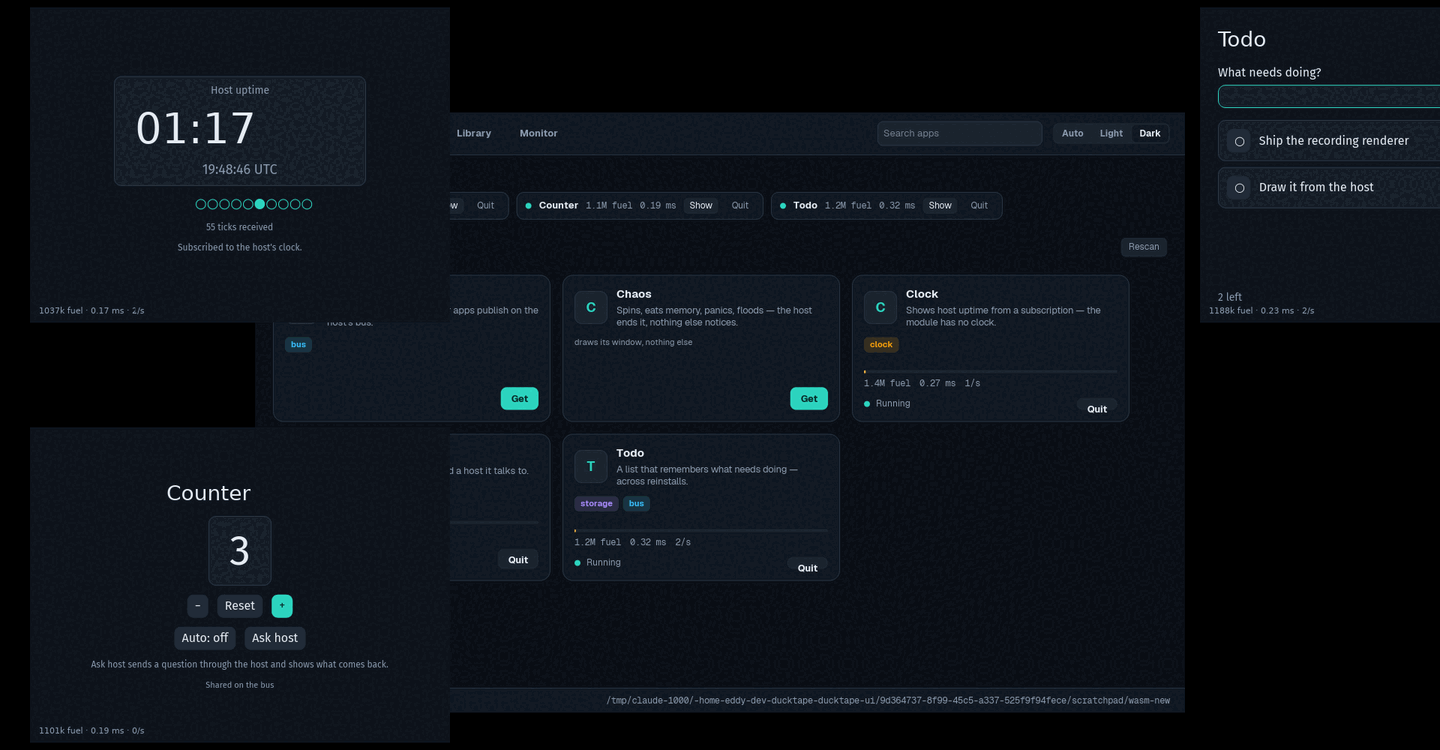
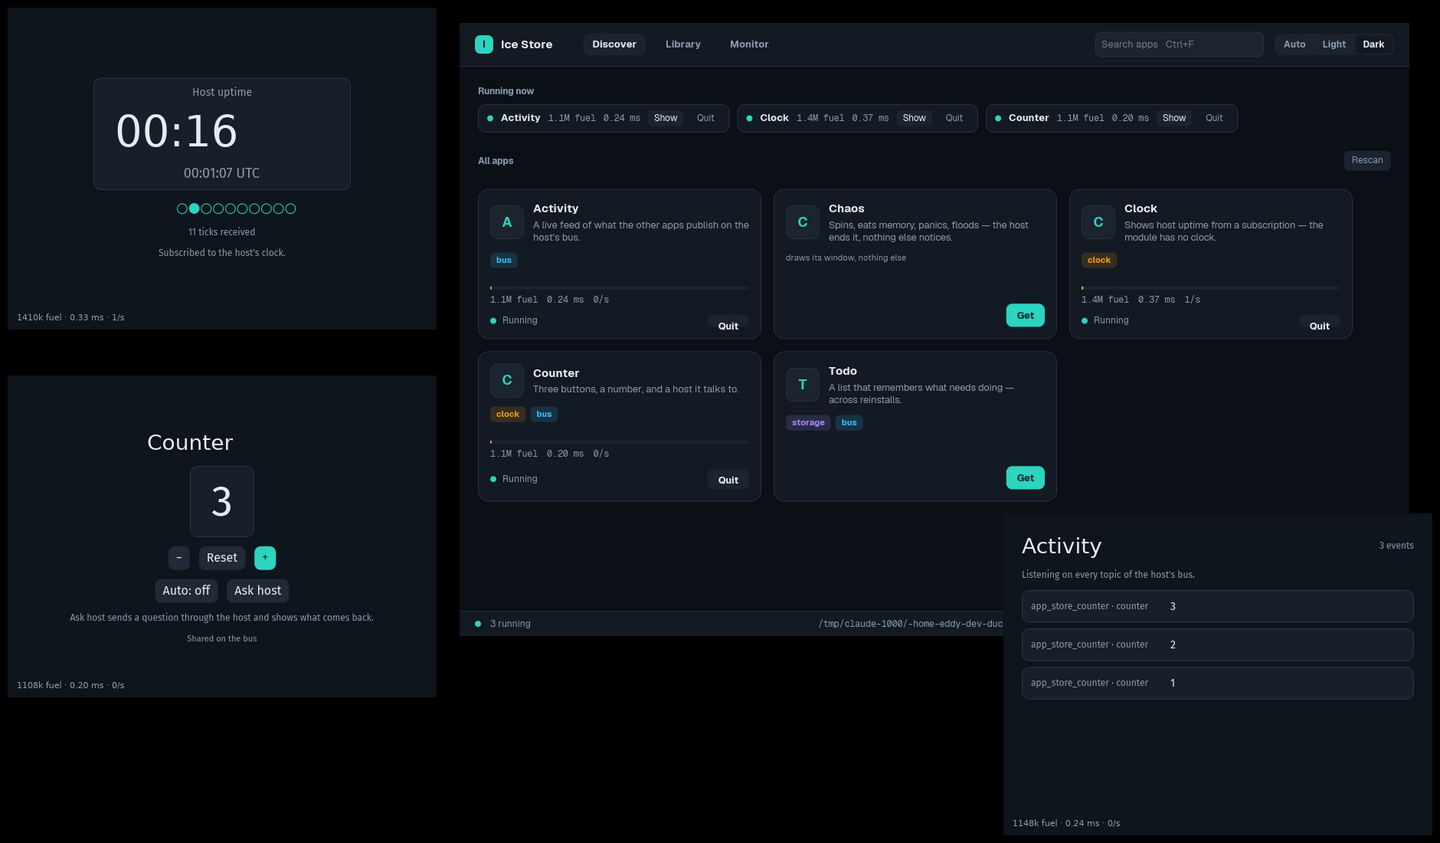
docs(examples): the app store's screenshots and keys, as they are now
The two README screenshots predate the search hint, the wider Library
rows and the card heads that are buttons; both are retaken on the current
store, light and dark, with Clock, Counter and Activity open and three
presses of Counter's + on the bus. The keys paragraph now says what the
keyboard reaches: Tab and Shift+Tab through every control, Enter on the
one wearing the ring.

Claude-Session: https://claude.ai/code/session_01PvrTGzi25cRNW1icTCZahG

diff --git a/examples/app-store/README.md b/examples/app-store/README.md
@@ -84,10 +84,14 @@ its compiled code go with the last handle. Closing the store window ends the
 store. What had a window at exit reopens at the next start, one load at a
 time; the library comes back as it was.
 
-Two keys are the store's, in its own window only: `Ctrl+F` (`⌘F` on macOS)
-puts the cursor in the search box, and `Escape` steps back one layer — a
-search in progress is cleared first, then an app's page returns to Discover.
-A guest's window keeps its keyboard; what it does with Escape is its own.
+The keyboard reaches everything in the store window. `Tab` and `Shift+Tab`
+move through its controls — the tabs, the search box, the colour switch,
+every card's head and button — and `Enter` presses the one wearing the
+ring. Two keys are the store's own: `Ctrl+F` (`⌘F` on macOS) puts the
+cursor in the search box, and `Escape` steps back one layer — a search in
+progress is cleared first, then an app's page returns to Discover. A
+guest's window keeps its keyboard; what it does with Tab or Escape is its
+own.
 
 The colour mode is the store's: Auto follows the system, Light and Dark are
 the user's word. Every guest subscribes to `host.theme` in its `on mount`
